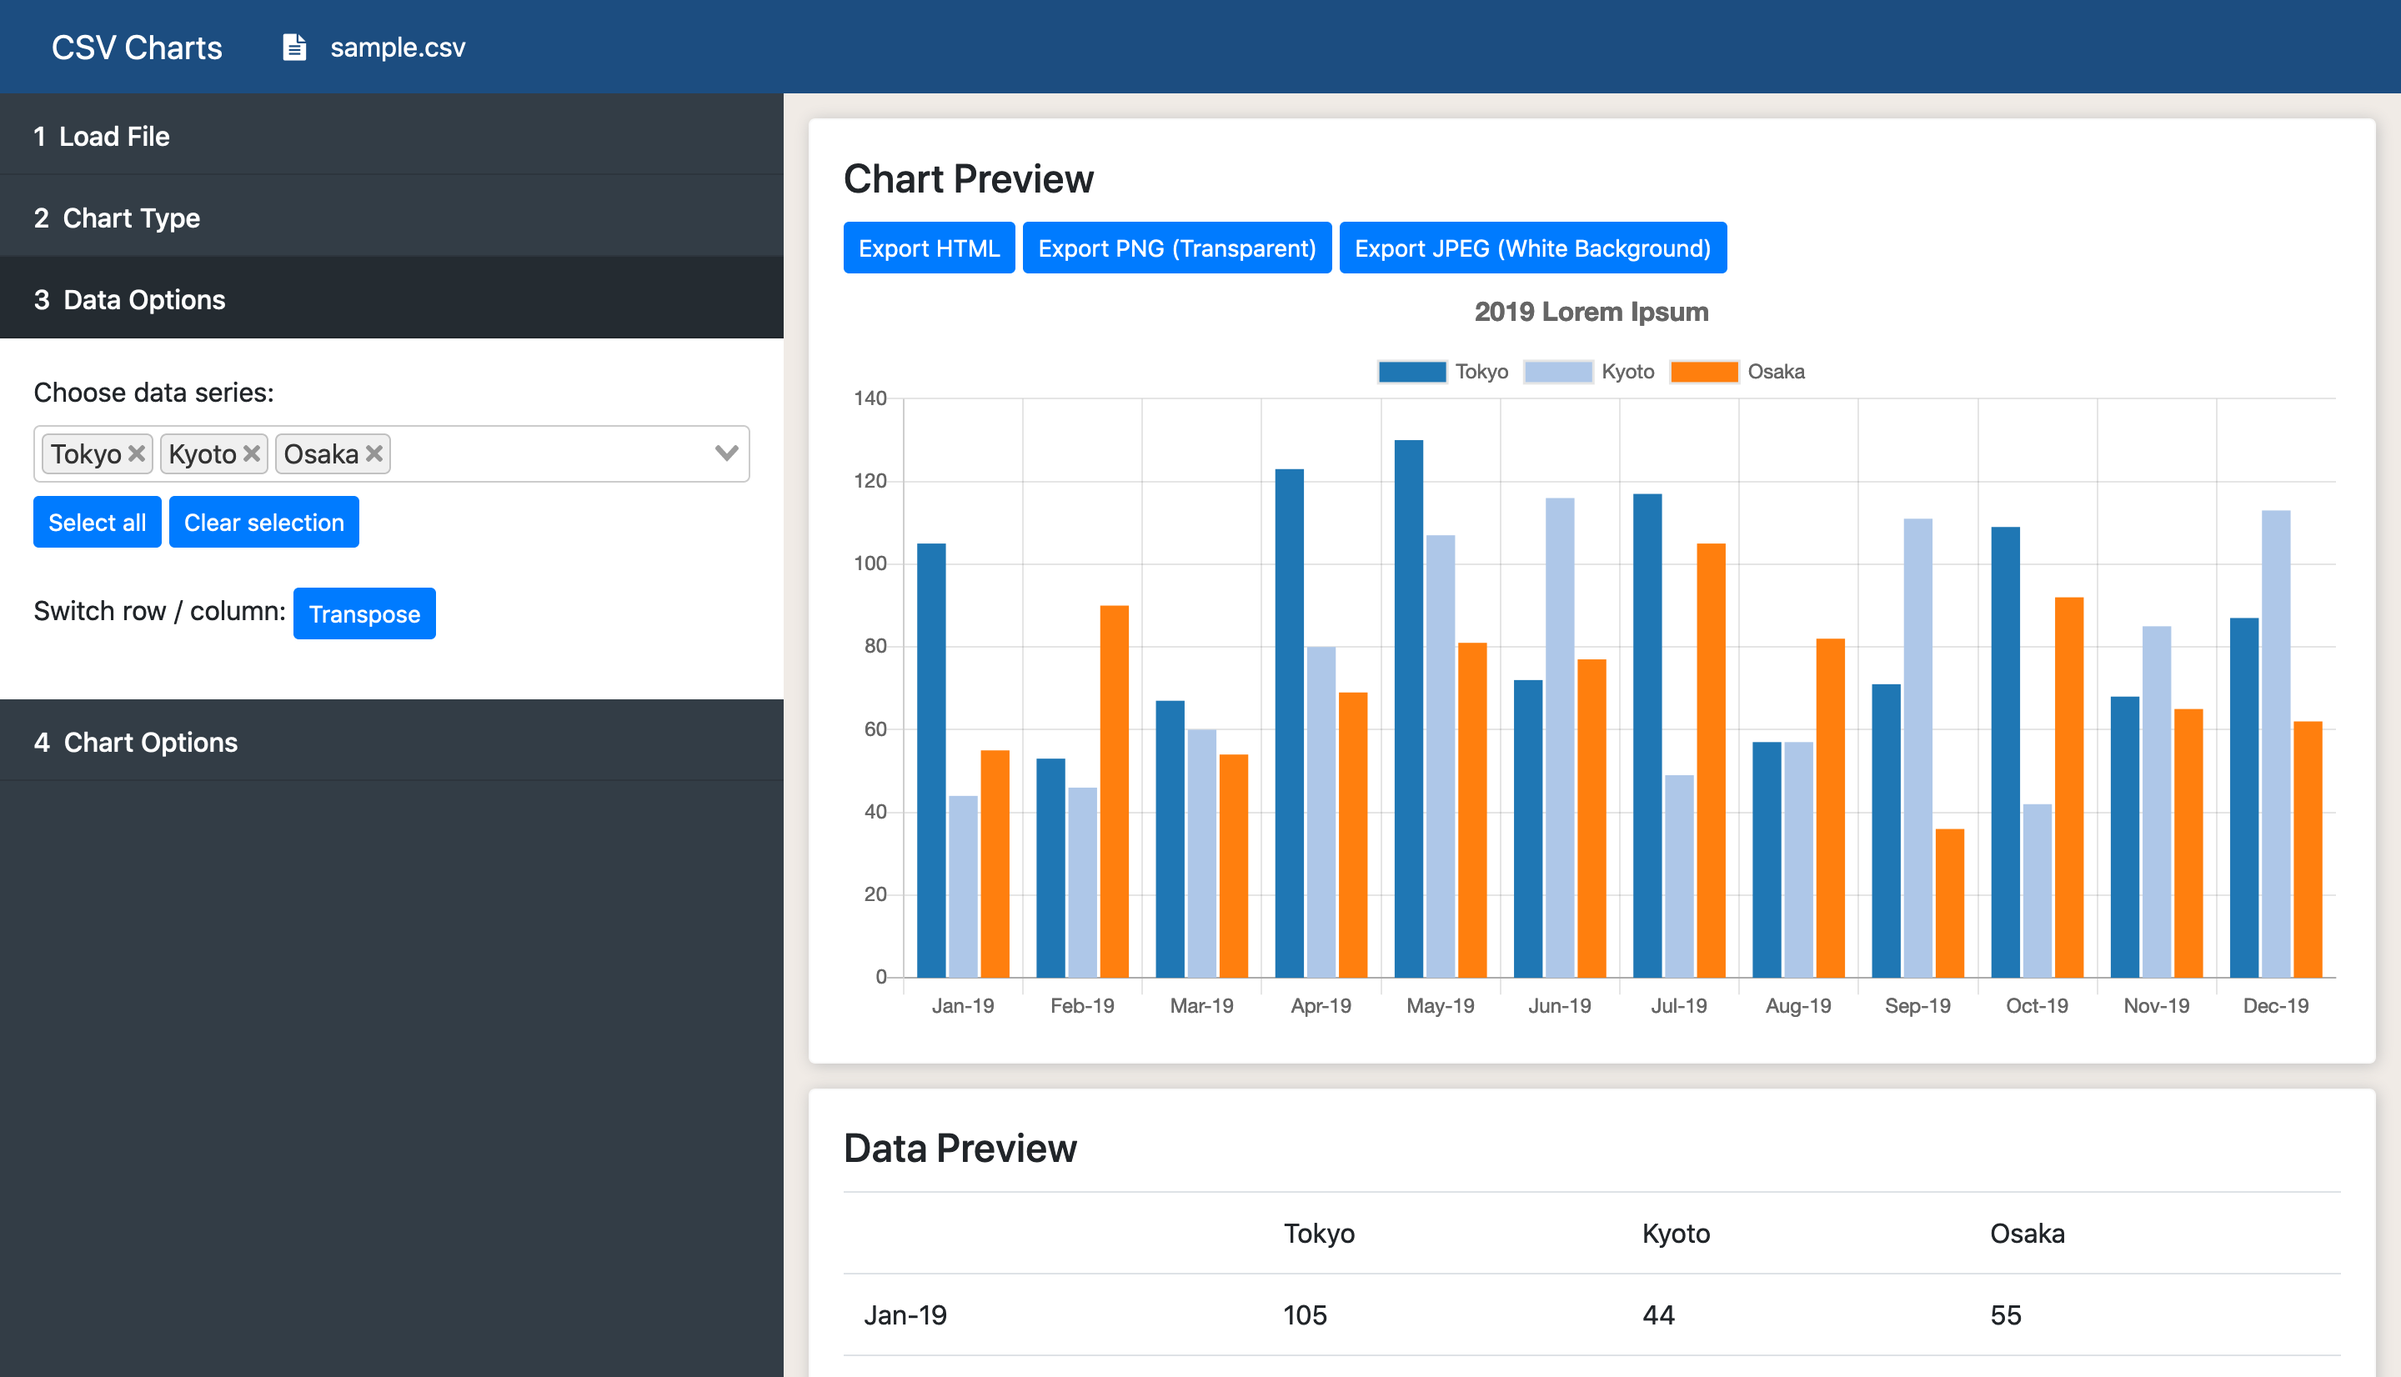
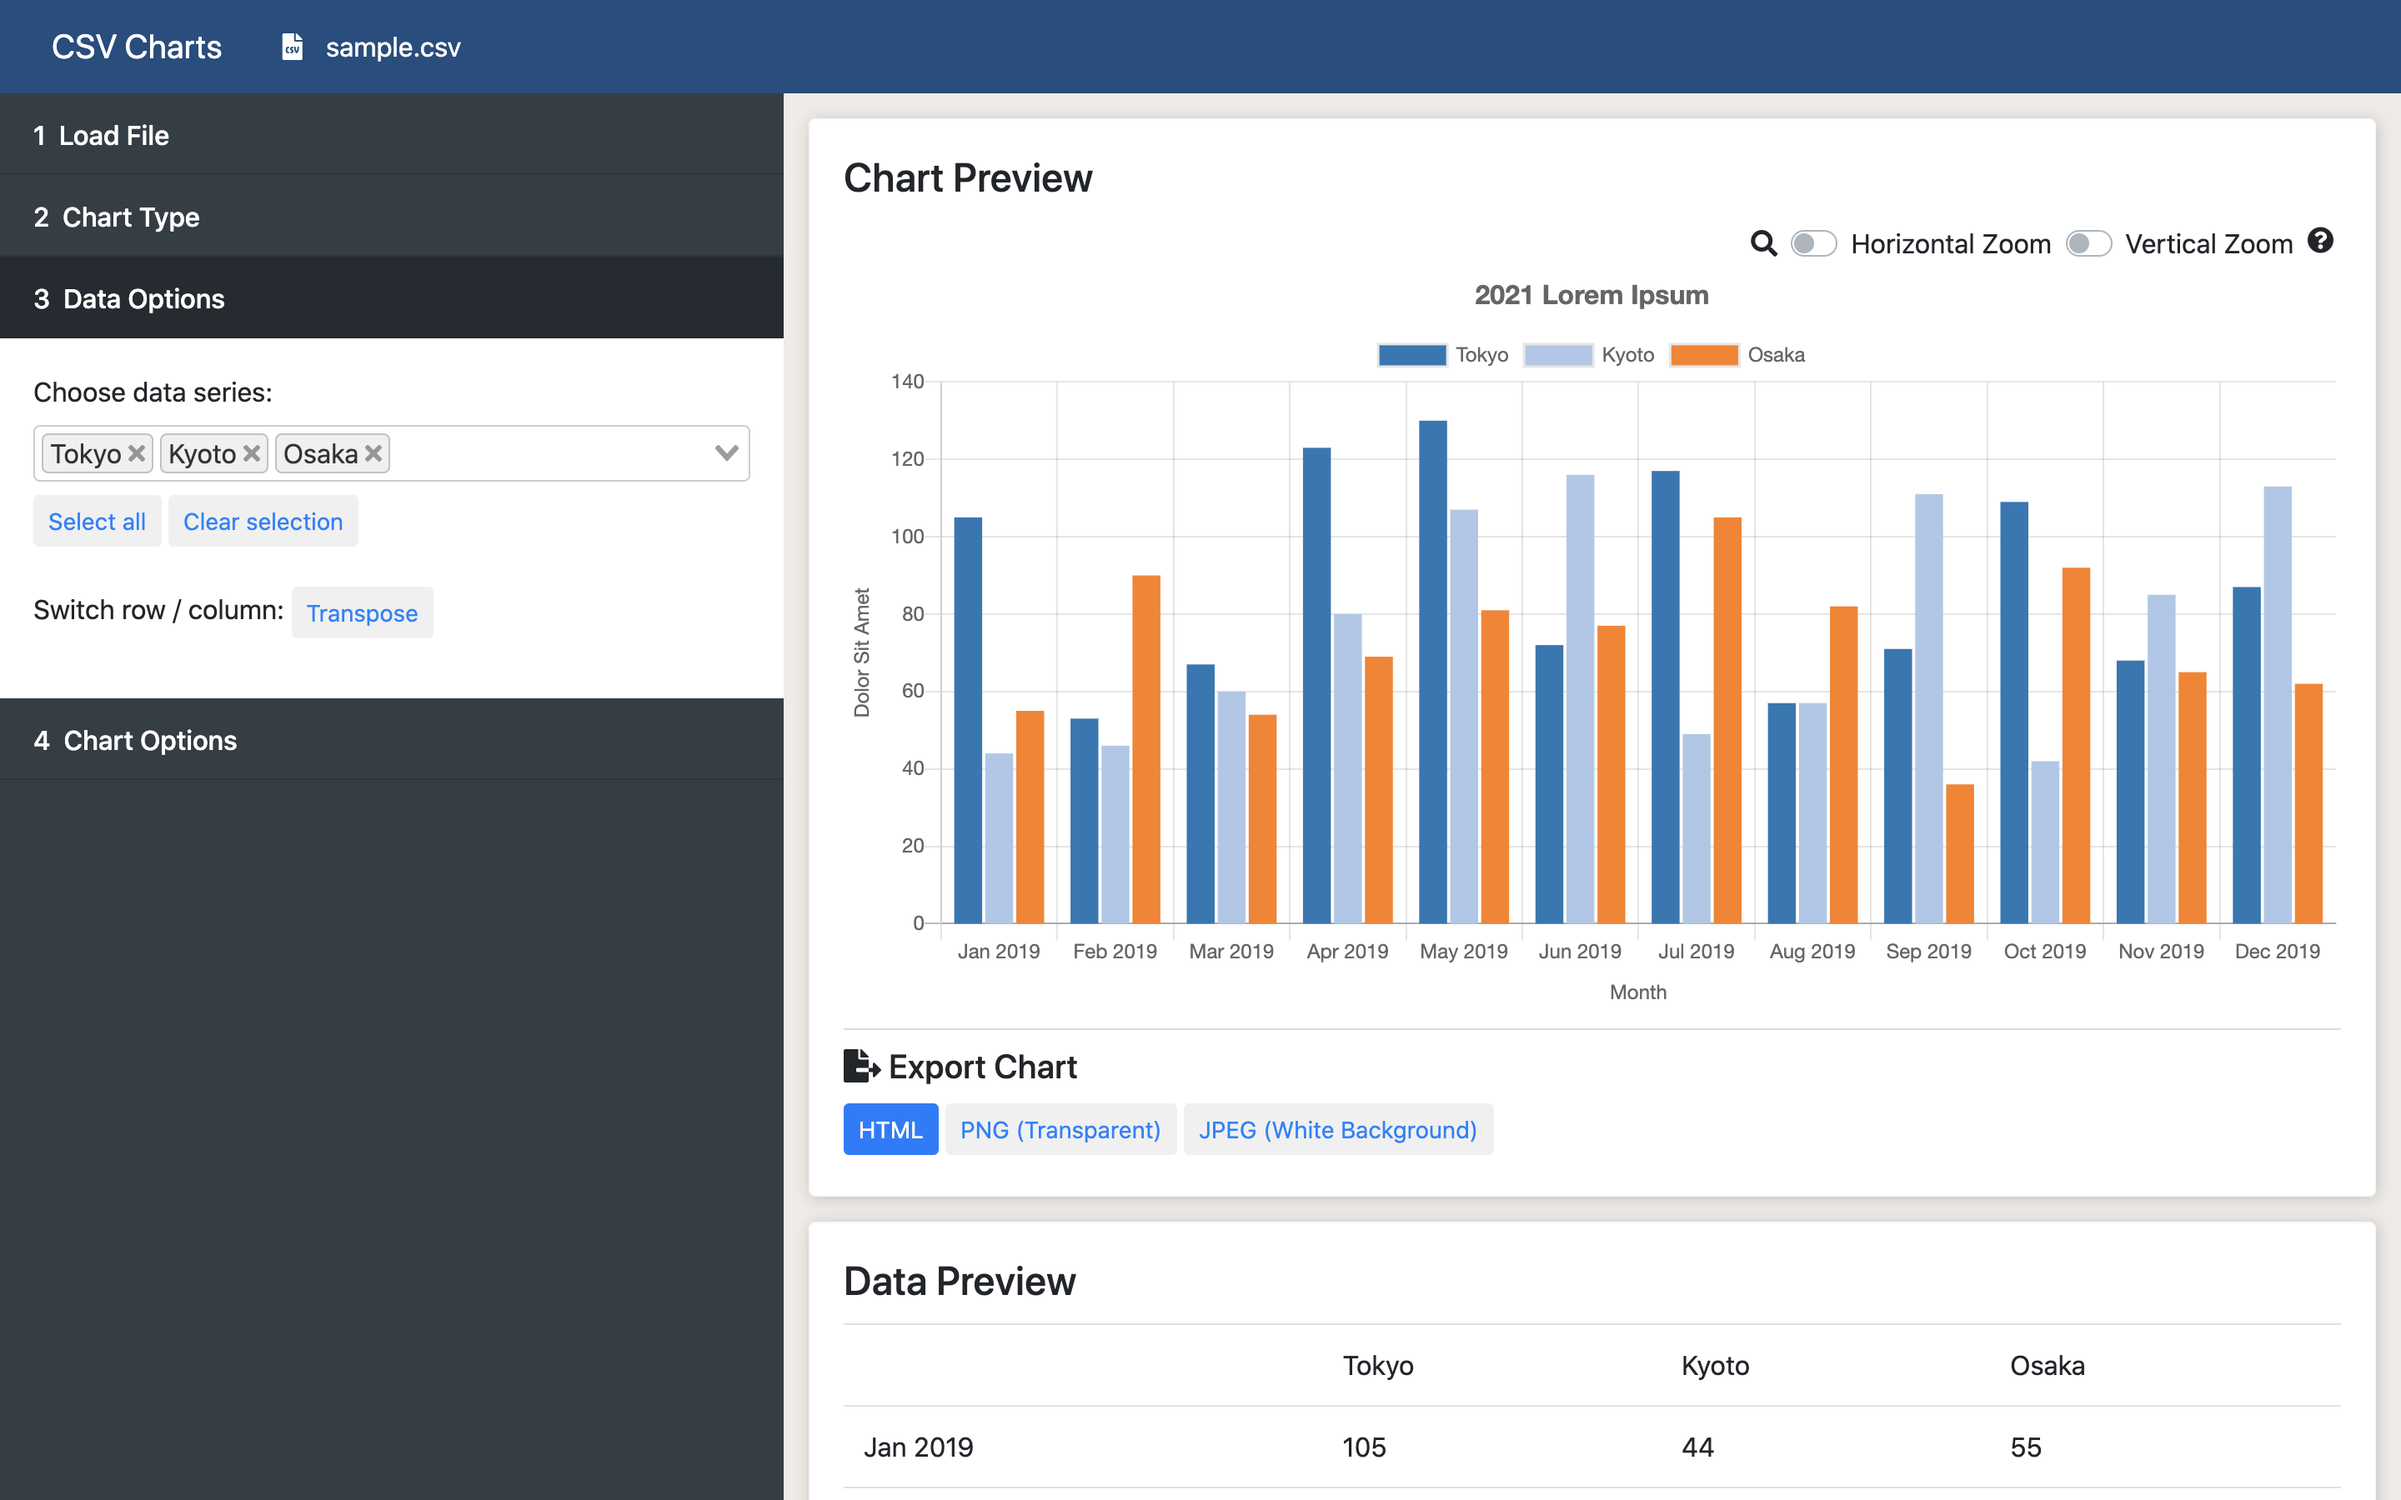
minor fixes

diff --git a/index.html b/index.html
@@ -174,7 +174,7 @@
                         <div v-if="rendered || largeFileMode">
                             <button v-if="largeFileMode" @click="render(true)" class="btn btn-success btn-sm mr-2"><i class="fas fa-sync"></i> Refresh Changes</button>
 
-                            <span class="zoom-buttons-bar">
+                            <span class="zoom-buttons-bar" v-if="activeChartDefinition.hasYAxis">
                                 <span class="align-middle d-inline-block mr-1">
                                     <i class="fas fa-search"></i>
                                 </span>
@@ -244,7 +244,9 @@
                             Paste this at the end of the head element, right before <code>&lt;/head&gt;</code>:<br>
                             <pre class="px-3 py-2"><code>&lt;script src="https://cdn.jsdelivr.net/npm/chart.js@2.8.0"&gt;&lt;/script&gt;
 &lt;script src="https://c-lake.github.io/csv-charts/js/chartjs-plugin-colorschemes.min.js"&gt;&lt;/script&gt;
-&lt;!-- Color scheme script from https://nagix.github.io/chartjs-plugin-colorschemes by Akihiko Kusanagi --&gt;</code></pre>You only need to do this once for each webpage even if you have multiple charts.
+&lt;!-- Color scheme script from https://nagix.github.io/chartjs-plugin-colorschemes by Akihiko Kusanagi --&gt;
+&lt;script src="https://cdn.jsdelivr.net/npm/hammerjs@2.0.8"&gt;&lt;/script&gt;
+&lt;src="https://cdn.jsdelivr.net/npm/chartjs-plugin-zoom@0.7.7"&gt;&lt;/script&gt;</code></pre>You only need to do this once for each webpage even if you have multiple charts.
                         </div>
                         <br>
                         <div>

diff --git a/index.js b/index.js
@@ -364,7 +364,7 @@ function saveJpeg(){
   //draw background / rect on entire canvas
   context.fillRect(0,0,w,h);
   //get the image data from the canvas
-  let imageData = this.canvas.toDataURL("image/jpeg");
+  let imageData = canvas.toDataURL("image/jpeg");
   //clear the canvas
   context.clearRect (0,0,w,h);
   //restore it with original / cached ImageData

diff --git a/README.md b/README.md
@@ -16,14 +16,4 @@ Demo page: https://c-lake.github.io/csv-charts/
 
   The numbers in yellow (**1001** here) is a random number and should be unique to each chart in a single webpage. In case of collision, press **Export HTML** again and another number will be generated.
 
-
-
-#### TODO
-- [x] Select multiple series
-- [x] More chart types: scatter...
-- [x] Large file mode: Limit size of CSV preview for significantly faster large file loads
-- [x] Exportable charts to embed in HTML
-- [x] Limit data range
-- [x] Complete interface remake
-
 Automatic chart coloring from: https://nagix.github.io/chartjs-plugin-colorschemes/
